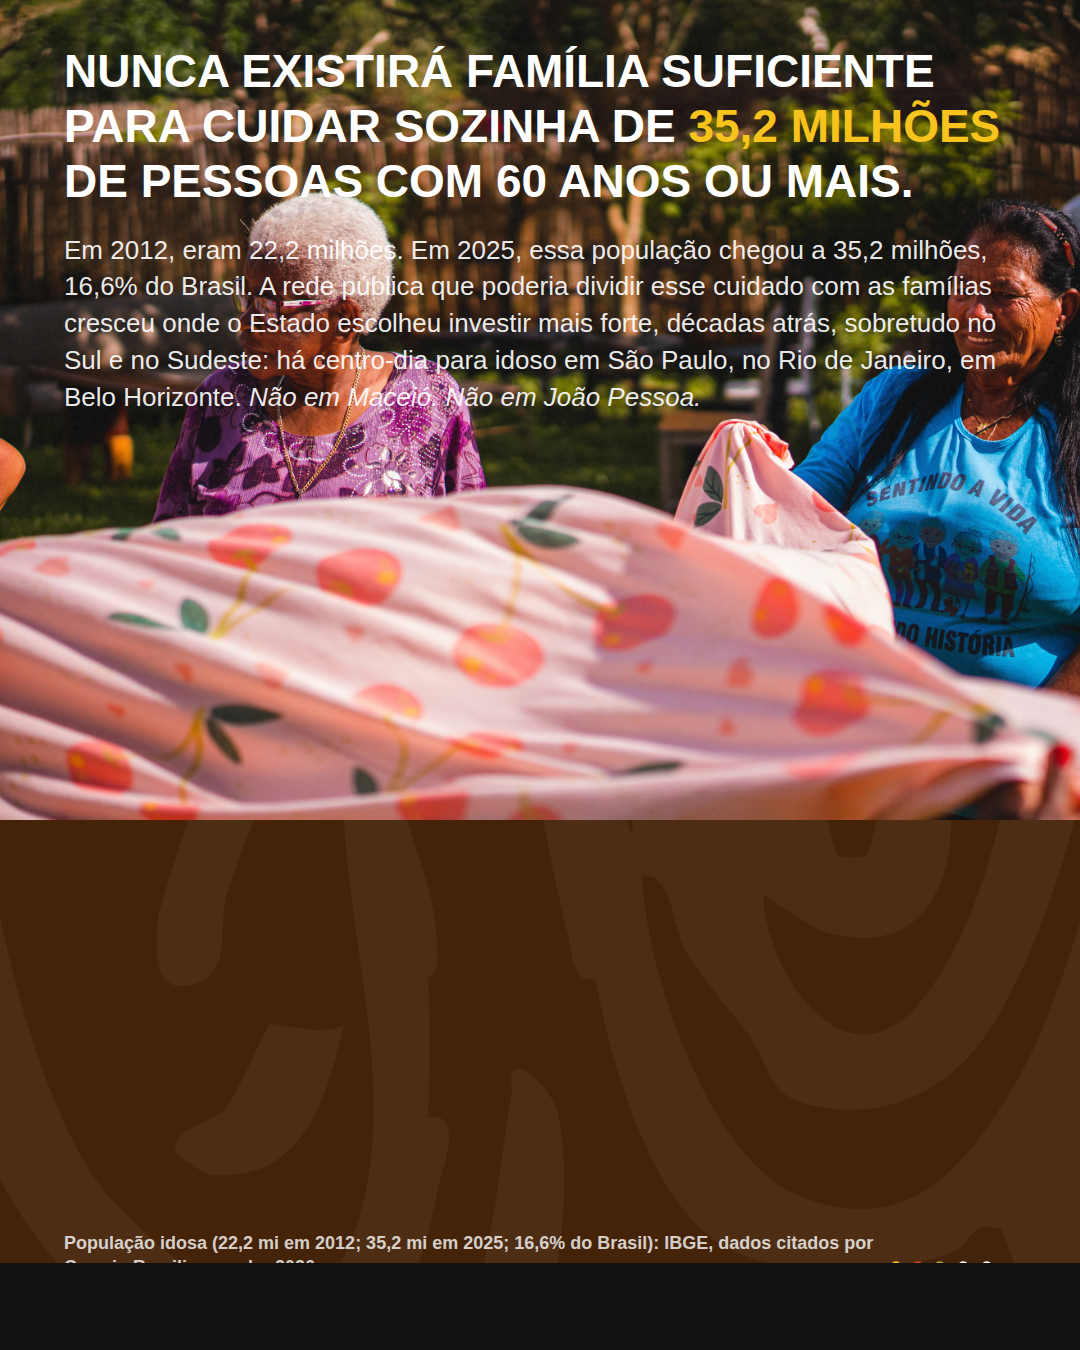
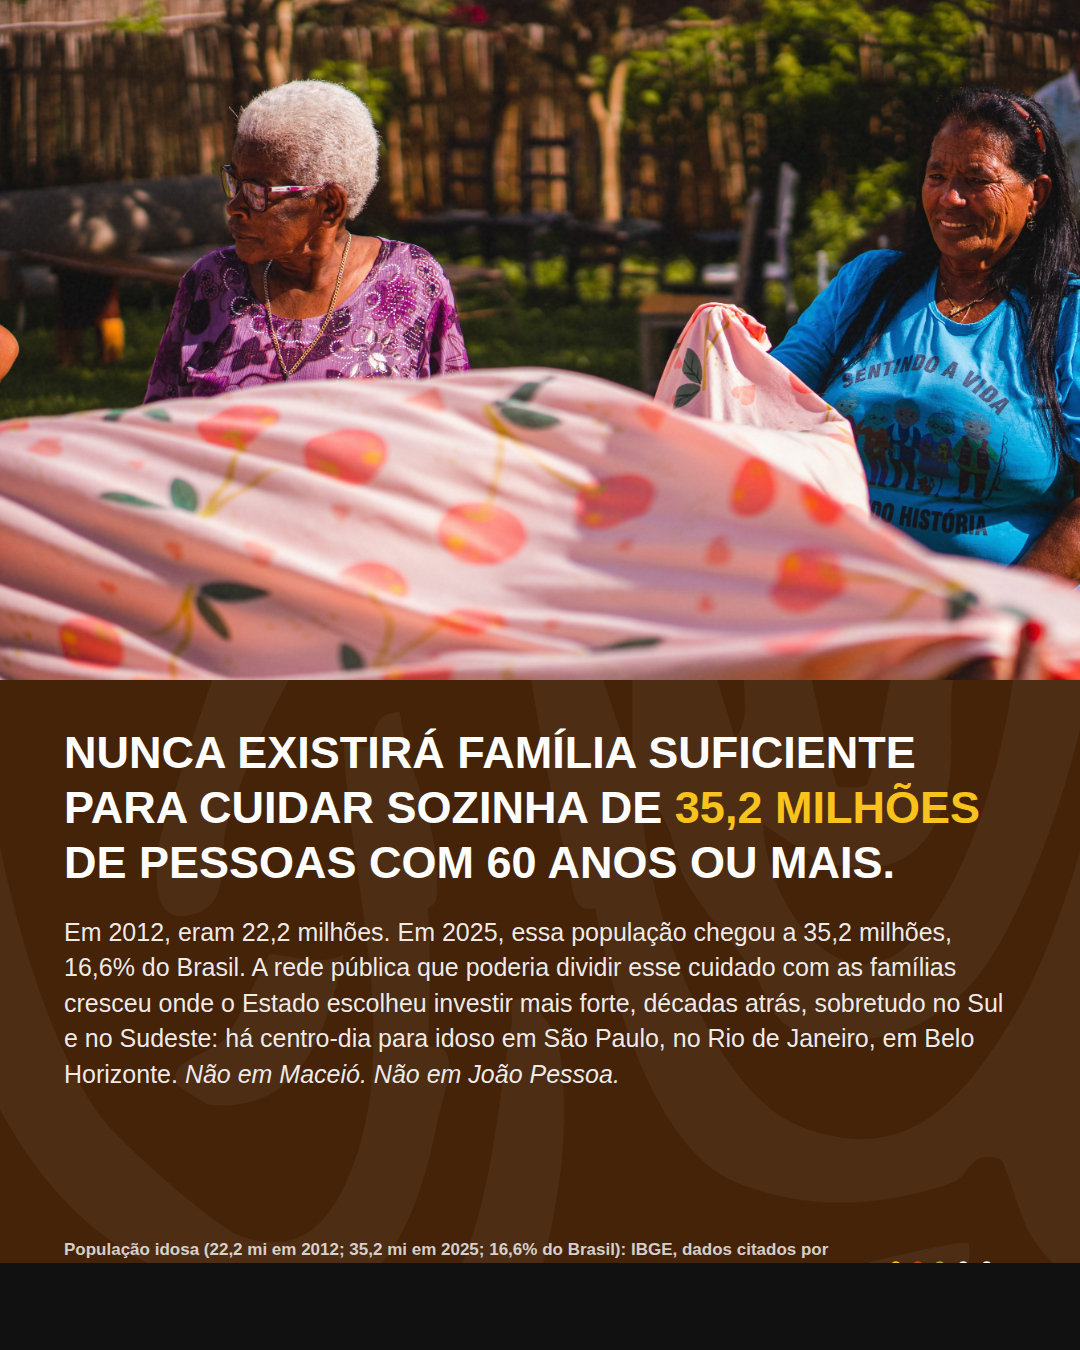
auto: .claude, conteudo, sessoes - 2026-09-02 18:31

diff --git a/conteudo/instagram/paaps.brasil/entregas/2026-09-SETEMBRO/sessao-03-card/index.html b/conteudo/instagram/paaps.brasil/entregas/2026-09-SETEMBRO/sessao-03-card/index.html
@@ -50,28 +50,28 @@
 
   /* ===== CARD ÚNICO : envelhecimento populacional =====
      Modelo aprovado pelo crítico (rodada 2, 97/100): variante do M1 (capa declarativa de
-     impossibilidade estrutural, sem pergunta) na cabeça do card, sustentada por uma linha
-     de apoio em língua comum e um rodapé com as duas fontes amarradas cada uma à afirmação
-     que sustentam (lógica do M6 número gigante, só que o elemento gigante é a frase de
-     impossibilidade, não um número isolado).
+     impossibilidade estrutural, sem pergunta) sustentada por uma linha de apoio em língua
+     comum e um rodapé com as duas fontes, cada uma amarrada à afirmação que sustenta
+     (lógica do M6 número gigante, só que o elemento gigante é a frase de impossibilidade,
+     não um número isolado).
 
      Composição: como o card é denso (headline longa + linha de apoio longa + 2 linhas de
-     fonte), a foto vai em faixa superior sangrando (mesma lógica do slide 3 "dado em card"
-     da peça de referência: object-fit cover é width-bound nessa altura, praticamente toda a
-     largura da foto original aparece, cortando só o suficiente pra excluir o homem desfocado
-     ao fundo à direita — decisão do Buscador de Fotos, executada aqui) — e o corpo de texto
-     inteiro senta numa área sólida marrom abaixo, sem competir com o fundo movimentado do
-     quintal. Nenhum texto cobre os rostos ou o gesto das duas mulheres (Lei 6). */
-  #s1 .foto{top:0;height:820px;object-position:4% 42%;}
-  #s1 .area-texto{position:absolute;left:0;right:0;top:820px;bottom:0;z-index:1;
-                   background:var(--cor-marrom);overflow:hidden;}
+     fonte), a foto sangra numa faixa superior (mesma lógica do slide 3 "dado em card" da
+     peça de referência) e o corpo de texto inteiro senta numa área sólida marrom abaixo,
+     dentro de um container próprio (.card), para não competir com o fundo movimentado do
+     quintal nem vazar por cima da foto. Nenhum texto cobre os rostos ou o gesto das duas
+     mulheres (Lei 6). A foto usada já é um recorte pré-processado (ver nota de entrega)
+     que exclui o homem desfocado ao fundo à direita, decisão do Buscador de Fotos. */
+  #s1 .foto{top:0;height:680px;object-position:50% 88%;}
+  #s1 .card{position:absolute;left:0;right:0;top:680px;bottom:0;z-index:1;
+             background:var(--cor-marrom);overflow:hidden;}
   #s1 .conteudo{position:relative;z-index:2;width:100%;height:100%;
-                 padding:44px 64px 40px;display:flex;flex-direction:column;justify-content:flex-start;gap:22px;}
-  #s1 .headline{font-size:46px;font-weight:700;line-height:1.2;}
-  #s1 .apoio{font-size:26px;font-weight:400;line-height:1.42;color:rgba(255,255,255,0.92);max-width:960px;}
+                 padding:46px 64px 38px;display:flex;flex-direction:column;gap:24px;}
+  #s1 .headline{font-size:45px;font-weight:700;line-height:1.22;}
+  #s1 .apoio{font-size:25px;font-weight:400;line-height:1.42;color:rgba(255,255,255,0.92);max-width:940px;}
   #s1 .apoio em{font-style:italic;font-weight:400;}
-  #s1 .rodape{margin-top:auto;display:flex;flex-direction:column;gap:6px;max-width:820px;}
-  #s1 .rodape .linha{font-family:var(--fonte-titulo);font-weight:700;font-size:18px;line-height:1.35;
+  #s1 .rodape{margin-top:auto;display:flex;flex-direction:column;gap:6px;max-width:780px;}
+  #s1 .rodape .linha{font-family:var(--fonte-titulo);font-weight:700;font-size:17px;line-height:1.32;
                       color:rgba(255,255,255,0.78);}
 </style>
 </head>
@@ -79,16 +79,16 @@
 
 <!-- SLIDE 1 : CARD ÚNICO -->
 <section class="slide" id="s1">
-  <img class="foto" src="fotos/idosa-vinculo-intergeracional-DSC03222-74.jpg">
-  <div class="area-texto">
+  <img class="foto" src="fotos/idosa-vinculo-intergeracional-crop.jpg">
+  <div class="card">
     <div class="textura textura--branco"></div>
-  </div>
-  <div class="conteudo">
-    <div class="headline">NUNCA EXISTIRÁ FAMÍLIA SUFICIENTE PARA CUIDAR SOZINHA DE <span class="amarelo">35,2 MILHÕES</span> DE PESSOAS COM 60 ANOS OU MAIS.</div>
-    <div class="apoio">Em 2012, eram 22,2 milhões. Em 2025, essa população chegou a 35,2 milhões, 16,6% do Brasil. A rede pública que poderia dividir esse cuidado com as famílias cresceu onde o Estado escolheu investir mais forte, décadas atrás, sobretudo no Sul e no Sudeste: há centro-dia para idoso em São Paulo, no Rio de Janeiro, em Belo Horizonte. <em>Não em Maceió. Não em João Pessoa.</em></div>
-    <div class="rodape">
-      <div class="linha">População idosa (22,2 mi em 2012; 35,2 mi em 2025; 16,6% do Brasil): IBGE, dados citados por Correio Braziliense, abr. 2026.</div>
-      <div class="linha">Rede de centros-dia por região: Estado de Minas, mai. 2026.</div>
+    <div class="conteudo">
+      <div class="headline">NUNCA EXISTIRÁ FAMÍLIA SUFICIENTE PARA CUIDAR SOZINHA DE <span class="amarelo">35,2 MILHÕES</span> DE PESSOAS COM 60 ANOS OU MAIS.</div>
+      <div class="apoio">Em 2012, eram 22,2 milhões. Em 2025, essa população chegou a 35,2 milhões, 16,6% do Brasil. A rede pública que poderia dividir esse cuidado com as famílias cresceu onde o Estado escolheu investir mais forte, décadas atrás, sobretudo no Sul e no Sudeste: há centro-dia para idoso em São Paulo, no Rio de Janeiro, em Belo Horizonte. <em>Não em Maceió. Não em João Pessoa.</em></div>
+      <div class="rodape">
+        <div class="linha">População idosa (22,2 mi em 2012; 35,2 mi em 2025; 16,6% do Brasil): IBGE, dados citados por Correio Braziliense, abr. 2026.</div>
+        <div class="linha">Rede de centros-dia por região: Estado de Minas, mai. 2026.</div>
+      </div>
     </div>
   </div>
   <img class="logo" src="logo/logo-branco.png">

diff --git a/conteudo/ciclos/2026-09-02/fotos-peca2.md b/conteudo/ciclos/2026-09-02/fotos-peca2.md
@@ -1,0 +1,226 @@
+# Fotos — Peça 2 da semana: rotatividade das Agentes Comunitárias de Saúde (ACS)
+
+**Data:** 02/09/2026
+**Perfil:** @paaps.brasil
+**Fonte da copy:** `conteudo/ciclos/2026-09-02/copy-peca2-acs.md`
+**Ambiente desta sessão:** sandbox de nuvem, sem Mac local (`insumos-compartilhados/fotos/` não
+existe neste ambiente). Ferramentas Notion (`mcp__Notion__notion-query-data-sources`,
+`mcp__Notion__notion-fetch`) **não estavam no conjunto de ferramentas desta sessão** — não pude
+sequer tentar o MODO 1 (PhotoBank Notion). Fui direto ao MODO 1C do meu arquivo de instruções:
+Google Drive, via `mcp__Google_Drive__search_files` e `mcp__Google_Drive__download_file_content`.
+Não tentei o MODO 1B (webhook n8n) porque a instrução da tarefa já autorizava pular direto ao 1C.
+
+**Aviso de escopo, antes de tudo:** por rodar só com Google Drive, o único acervo fotográfico real
+que encontrei é o acervo próprio da PAAPS (Bela Vista de Minas). O acervo documental de rede
+pública genérica (ACS/visita domiciliar/território, citado em `mapa-fontes-foto.md` e usado em
+peças anteriores) **não existe no Drive**: só existe no disco local do Mac da Mallu, que não está
+acessível aqui. Isso pesa contra a hierarquia de fontes do ecossistema (documental pública em
+primeiro lugar, acervo próprio pontual) — não é uma escolha minha, é a lacuna deste ambiente. Estou
+registrando isso como pendência de gestão, não escondendo atrás de uma foto forçada.
+
+---
+
+## O que eu consultei
+
+### Google Drive — pastas verificadas
+
+1. **`FOTOS BVMG ISAAC`** (id `1j3HMea3pwEWaz4HEuEUFFpuuYmTl0bPr`) — 208 arquivos de imagem
+   listados via `mcp__Google_Drive__search_files` (`parentId = '1j3HMea3pwEWaz4HEuEUFFpuuYmTl0bPr'
+   and mimeType contains 'image/'`, 2 páginas, ~102 + ~102 linhas). **Abri e olhei 15 fotos desta
+   pasta** (de 208): `IMG_7721`, `IMG_7730`, `IMG_7745`, `IMG_7787`, `IMG_7852`, `IMG_7866`,
+   `IMG_7912`, `IMG_7914`, `IMG_7925`, `IMG_7940`, `IMG_7993`, `IMG_7994`, espalhadas por toda a
+   numeração de sequência (7721 a 8002), mais 3 fotos com legenda de conteúdo já visível no
+   `contentSnippet` do próprio resultado da busca (rótulos de imagem gerados pelo Drive, que usei
+   só para decidir o que abrir, nunca como descrição final). **Achado consistente em toda a
+   amostra:** é a cobertura de **um único evento**, um workshop/roda de conversa indoor num prédio
+   público (retratos institucionais na parede, ar-condicionado, TV, cadeiras amarelas de
+   escritório), com dinâmica de post-its, uma pessoa falando com microfone e uma foto de grupo
+   posada de encerramento. **Nenhuma das 15 fotos abertas mostra rua, porta, casa, visita
+   domiciliar ou qualquer cena de campo.** Não há indício, nas fotos abertas nem nos títulos/
+   caminho da pasta, de que o resto da pasta mude de registro: a numeração é sequencial e contínua
+   (mesma sessão de câmera, mesmo dia 26-27/11/2025).
+
+2. **`OUTRAS FOTOS`** (id `1blGmXdb0Hs2Ilnuuo6fSX7sK_urbmx6M`) — listagem completa via
+   `search_files` (18 arquivos). Abri 3: `MARIA QUINZINHO.jpg` (retrato de uma senhora sorrindo
+   através de uma grade — não é ACS, é provavelmente beneficiária/moradora, ⚠ alta exposição),
+   `DSC03075-3.jpg` e `DSC03222-74.jpg` (ambas cenas ao ar livre sob palmeiras / cercado de bambu,
+   perfil de comunidade/Refazenda, não SUS). Nenhuma serve ao ângulo de ACS.
+
+3. **`REDE PÚBLICA - BRASIL`** (id `16ERZZlcKjIRBMggzhJ_abtj6HF686XUx`) — busquei por
+   `title contains 'REDE' or title contains 'PÚBLICA' or title contains 'SUS' or title contains
+   'ACS'`. **Confirmado: é uma biblioteca de PDFs teóricos** (CREPOP, RAPS/UNA-SUS, Foucault/
+   Laboreal, slides de aula sobre agroecologia e psicologia comunitária), não um acervo
+   fotográfico. Zero imagens fotográficas nesta pasta.
+
+4. **`Case de Bela Vista de Minas`** (id `1PkZZ35oEi9x_PFfycZBEqhp5fc6a6QUx`) — listada via
+   `search_files`. **Todo o conteúdo são atalhos (`shortcut`) para arquivos HEIC/MOV/JPG
+   localizados em outro lugar do Drive** (provavelmente o álbum do celular da Mallu). Tentei abrir
+   um (`IMG_2499.JPG`, id `11_H43T2boCNlXrBnA68jgKtIqH3eJR2g`) via
+   `download_file_content`: **erro "Download not allowed for file id"**. Consultei os metadados
+   (`get_file_metadata`): o Drive não expõe o `id` do arquivo-alvo do atalho nesta API. **Não
+   consegui ver nenhuma foto desta pasta** — não é dedução por título, é limitação de ferramenta
+   registrada aqui.
+
+5. **`ECOA FOTOS`, `MÃES ATÍPICAS RJ`, `CRAFTSAPIENS (MUNDO DIGITAL)`** — não abri. Pelo próprio
+   propósito declarado dessas pastas (`mapa-fontes-foto.md`: ECOA exclusivo do Interlocutor ECOA;
+   Mães Atípicas é projeto de autismo; Craftsapiens é evento de tecnologia), nenhuma tem relação de
+   conteúdo com ACS/SUS. Não gastei chamadas de download nelas.
+
+### O que eu NÃO consegui ver
+
+- Todo o conteúdo de `Case de Bela Vista de Minas` (atalhos não resolvíveis com as ferramentas
+  desta sessão).
+- 193 das 208 fotos de `FOTOS BVMG ISAAC` (abri 15; ver acima por que considero a amostra
+  suficiente para concluir que a pasta inteira é um único evento indoor).
+- O acervo documental de rede pública (`REDE PÚBLICA BRASILEIRA` no Mac local, citado em
+  `mapa-fontes-foto.md` e no `MEMORY.md` deste agente) — não existe no Drive, só no disco local.
+- O PhotoBank do Notion — ferramentas MCP do Notion não estavam disponíveis nesta sessão.
+
+---
+
+## Slide a slide
+
+### Slide 1 — Capa
+**Cena pedida:** ACS de uniforme/colete, caminhando por rua de bairro popular, se aproximando de
+portão aberto, prancheta na mão. Território visível (casas, rua).
+
+**Não encontrei candidata real.** Consulta: 15/208 fotos abertas em `FOTOS BVMG ISAAC` (todas
+indoor, evento único); `OUTRAS FOTOS` completa (3/18 abertas, nenhuma de rua/ACS);
+`REDE PÚBLICA - BRASIL` é biblioteca de PDF, 0 imagens. Nenhuma foto de rua, portão ou casa nos
+acervos que consegui abrir. **Sem foto neste slide, nesta entrega.**
+
+### Slide 2 — Raiz histórica
+**Cena pedida:** ACS na soleira de uma casa, sendo recebida por morador que já a reconhece.
+
+**Não encontrei candidata real.** Mesma base de busca do slide 1. Nenhuma cena de soleira/porta de
+casa em nenhum dos acervos abertos. **Sem foto.**
+
+### Slide 3 — Contradição em dado
+**Cena pedida:** ACS numa rua com várias casas ao fundo, carregando pasta/fichas — escala de
+território.
+
+**Não encontrei candidata real.** Mesma base. **Sem foto.**
+
+### Slide 4 — Citação real
+**Cena pedida:** retrato de uma ACS real, rosto visível, de uniforme, ambiente de trabalho (rua ou
+UBS), expressão séria e refletida.
+
+**Candidata única, com ressalva forte — decisão da Mallu, não minha:**
+
+- **`IMG_7745.JPG`** (`FOTOS BVMG ISAAC`, id `1ngkuMFbGmadIEtBIITLhW_xDu-fvWY8U`)
+  - **O que eu vi:** plano fechado de duas mulheres em perfil, sentadas, ouvindo alguém fora de
+    quadro; a da frente (blusa alça, tatuagem no braço) tem expressão neutra/atenta; a de trás
+    (regata cinza, tatuagem no pescoço) olha séria, direto para a câmera de quem fotografa a
+    plateia — não para o fotógrafo, expressão espontânea, não posada. Fundo bege liso.
+  - **Por que essa, com ressalva:** é a única foto entre as que abri com rosto isolado, expressão
+    séria/refletida e não sorrindo para câmera — o registro emocional que o slide pede. **Mas não
+    atende dois critérios explícitos da cena:** não há uniforme visível, e o ambiente é uma sala de
+    workshop institucional, não rua nem UBS. Não sei se as pessoas retratadas são ACS ou outra
+    categoria de servidor presente no evento.
+  - Acervo: próprio PAAPS (Bela Vista de Minas) · ⚠ licença não declarada (sem Notion nesta sessão,
+    não há como checar campo `Licença` do PhotoBank)
+  - Usos: não registrado (sem acesso ao Notion para checar/gravar `Usos` nesta sessão)
+  - Alertas: rosto identificável de duas pessoas, contexto real (⚠ risco de exposição, comum) — não
+    é situação de sofrimento/vulnerabilidade, é reunião de trabalho, risco baixo. **Alerta principal
+    é de adequação à cena, não de exposição.**
+  - Copiada para `conteudo/instagram/paaps.brasil/entregas/2026-09-SETEMBRO/sessao-02/fotos/slide-04.jpg`
+    **como melhor opção real disponível, não como match correto.** Se a Mallu preferir deixar o
+    slide 4 sem foto a usar uma imagem que não é de ACS em campo, essa é uma escolha legítima dela.
+
+### Slide 5 — Respiro
+**Cena pedida:** foto clara, ACS de costas caminhando por rua/vila ampla, escala de território.
+
+**Não encontrei candidata real.** Mesma base de busca. **Sem foto.**
+
+### Slide 6 — Virada
+**Cena pedida:** interior simples de UBS/posto, ACS entregando ficha a colega, ou sala de reunião
+com ACS reunidas ao fim do plantão, postura cansada, real, não posada.
+
+**3 candidatas, todas do mesmo evento (`FOTOS BVMG ISAAC`), todas abertas e olhadas:**
+
+**Candidata A (escolhida) — `IMG_7721.JPG`** (id `1i-SReuOwdbBKtwGgiZ-BBBfCS4L1ITbB`)
+- **O que eu vi:** sala institucional (retratos emoldurados de autoridades na parede, TV, ar-
+  condicionado, cadeiras amarelas de escritório em círculo). Cerca de 10 mulheres e 1 homem
+  sentados em roda, ouvindo uma facilitadora (blusa branca) ao centro-direita. Posturas reais:
+  braços cruzados, pernas cruzadas, expressões sérias/cansadas, ninguém olha para a câmera.
+- **Por que essa:** é a foto que mais carrega "gente real reunida, ouvindo, postura de quem já
+  trabalhou o dia inteiro" — a estrutura emocional do slide (peso, escuta, não celebração). Não é
+  literalmente uma UBS nem "fim de plantão", mas é o registro mais próximo de "sala de reunião com
+  servidoras reunidas, postura real, não posada" que existe no material acessível.
+- Acervo: próprio PAAPS (Bela Vista de Minas) · ⚠ licença não declarada
+- Usos: não registrado (sem Notion nesta sessão)
+- Alertas: ⚠ risco de exposição comum (rostos identificáveis, contexto de trabalho, não de
+  vulnerabilidade) — risco baixo
+- Copiada para `.../sessao-02/fotos/slide-06.jpg`
+
+**Candidata B — `IMG_7730.JPG`** (id `1BlqqrZg5bncYWwHXmlUk_LCutM2CIxPD`)
+- **O que eu vi:** plano mais fechado, 3 mulheres sentadas em cadeiras amarelas, uma de blusa
+  branca no centro sorri levemente para o lado, as outras duas sérias, uma de braços cruzados.
+  Janela grande ao fundo, luz estourada.
+- Por que não escolhi: o sorriso da figura central e a luz estourada da janela deixam a foto mais
+  "clara/leve" do que o peso que o slide 6 pede (é a virada de "a régua segue igual", precisa de
+  gravidade). A candidata A carrega mais gente e mais seriedade coletiva.
+- Mesmos alertas de acervo/licença/exposição da candidata A.
+
+**Candidata C — `IMG_7745.JPG`** (mesma foto usada no slide 4)
+- Descartada aqui por já estar alocada ao slide 4 (evitar repetir a mesma imagem em dois slides da
+  mesma peça) e por ser plano fechado demais para "sala de reunião", que pede mais gente em quadro.
+
+### Slide 7 — Número gigante
+**Cena pedida:** cadeira vazia numa sala de espera de UBS, ou colete/crachá de ACS pendurado sem
+ninguém — sinal de alguém que saiu.
+
+**Não encontrei candidata real.** Nas fotos de encerramento do mesmo evento (`IMG_7912`,
+`IMG_7914`), há cadeiras amarelas vazias em primeiro plano — mas é porque todo mundo se levantou
+para a foto de grupo posada ao fundo, não uma cena deliberada de ausência. Usar esse recorte
+falsearia a leitura ("alguém que saiu") sobre uma foto que na verdade mostra o grupo inteiro
+presente e sorrindo. **Não considero isso uma candidata real** — é o tipo de forçação que a regra
+deste agente proíbe. **Sem foto neste slide, nesta entrega.**
+
+### Slide 8 — Fechamento, pergunta
+**Cena pedida:** foto ampla de rua de bairro com várias casas, ACS ao longe caminhando em direção
+ao horizonte, luz de fim de tarde, sangrando até a borda.
+
+**Não encontrei candidata real.** Mesma base de busca dos slides 1, 2, 3 e 5. **Sem foto.**
+
+---
+
+## Resumo para a Mallu
+
+De 8 slides, **encontrei candidata real para 2** (slides 4 e 6), e mesmo essas com ressalva: são do
+mesmo evento indoor de Bela Vista de Minas, não do registro de campo (rua/porta/visita domiciliar)
+que a copy pede para os outros 6 slides. Os 6 slides restantes (1, 2, 3, 5, 7, 8) **ficam sem foto
+nesta entrega** porque não existe, nos acervos que consegui abrir neste ambiente de nuvem, nenhuma
+imagem real de ACS em rua, porta, casa ou visita domiciliar.
+
+**Isso é informação de gestão, não um limite de esforço meu:** o acervo documental de rede pública
+que cobriria exatamente essas cenas (`REDE PÚBLICA BRASILEIRA`, citado em `mapa-fontes-foto.md`)
+existe só no disco local do Mac da Mallu, fora do alcance desta sessão de nuvem. Três caminhos
+possíveis, para ela decidir:
+
+1. Rodar esta mesma curadoria numa sessão com acesso ao Mac local (MODO 1 padrão), que tem as 33
+   fotos de "REDE PÚBLICA BRASILEIRA" já auditadas em `.claude/agent-memory/buscador-fotos/MEMORY.md`
+   — inclusive candidatas fortes para os slides 1, 2 e 3 (`Visita-Domiciliar-Gurupi-Tocantins`,
+   `PSF-Periferia-Sao-Paulo`, `ACS-Quilombola`).
+2. Aceitar as 2 candidatas de campo indireto (slides 4 e 6) e publicar os outros 6 slides sem foto
+   — decisão dela, não deveria ser decisão silenciosa minha.
+3. Adiar a peça até nova sessão com acesso ao acervo certo.
+
+## Arquivos entregues
+
+- `conteudo/instagram/paaps.brasil/entregas/2026-09-SETEMBRO/sessao-02/fotos/slide-04.jpg`
+  (`IMG_7745.JPG`, com ressalva — ver slide 4)
+- `conteudo/instagram/paaps.brasil/entregas/2026-09-SETEMBRO/sessao-02/fotos/slide-06.jpg`
+  (`IMG_7721.JPG`)
+- Slides 1, 2, 3, 5, 7, 8: sem arquivo, por ausência de candidata real (ver detalhamento acima)
+
+## Registro no PhotoBank
+
+**Não realizado.** As ferramentas MCP do Notion (`notion-query-data-sources`, `notion-fetch`,
+`notion-update-page`) não estavam disponíveis nesta sessão — não consegui consultar nem atualizar
+o PhotoBank. As duas fotos usadas (`IMG_7745.JPG`, `IMG_7721.JPG`) vêm do Google Drive
+(`FOTOS BVMG ISAAC`), não do PhotoBank do Notion, e não têm página lá. Se esta peça for publicada,
+registrar manualmente no Notion (ou em sessão futura com acesso MCP): as duas imagens como novas
+páginas do PhotoBank (Story: "PAAPS in action! Cases", Fonte: acervo PAAPS, Licença: ⚠ não
+verificada), e o campo `Usos` de cada uma com `2026-09-02 · carrossel "rotatividade ACS" · slide 04`
+e `slide 06` respectivamente.

diff --git a/.claude/agent-memory/buscador-fotos/MEMORY.md b/.claude/agent-memory/buscador-fotos/MEMORY.md
@@ -129,3 +129,35 @@ metadados, não desta etapa de curadoria pontual.
 ## Fotos que a Mallu rejeitou
 
 *(vazio; registrar a partir da primeira devolução dela)*
+
+---
+
+## MODO 1C (Google Drive) — o que a pasta `FOTOS BVMG ISAAC` realmente é (02/09/2026)
+
+Rodando em sandbox de nuvem sem disco local nem ferramentas Notion, usei o MODO 1C
+(`mcp__Google_Drive__search_files` + `download_file_content`) para o carrossel de rotatividade das
+ACS. Abri 15 das 208 fotos de `FOTOS BVMG ISAAC` (id `1j3HMea3pwEWaz4HEuEUFFpuuYmTl0bPr`), espalhadas
+por toda a numeração `IMG_7721` a `IMG_8002`.
+
+**Achado importante: a pasta inteira, pelo menos na amostra aberta, é a cobertura de UM ÚNICO
+EVENTO** — um workshop/roda de conversa indoor num prédio público de Bela Vista de Minas (retratos
+institucionais na parede, TV, ar-condicionado, cadeiras amarelas de escritório), com dinâmica de
+post-its coloridos na parede, uma fala com microfone e uma foto de grupo posada de encerramento.
+**Não é o acervo de campo (rua, porta, casa, visita domiciliar) que os carrosséis de ACS pedem.**
+Esse acervo de campo (`REDE PÚBLICA BRASILEIRA`, ver seção acima deste arquivo) só existe no disco
+local do Mac, não no Drive. Se aparecer de novo uma sessão de nuvem sem disco local e a tarefa
+pedir cena de rua/porta/casa: **não adianta vasculhar mais fundo `FOTOS BVMG ISAAC` esperando achar
+isso** — é outro tipo de material (reunião/formação interna). Vale para portrait fechado também: as
+fotos de rosto sério que existem lá são recortes de gente ouvindo em roda, não retratos dedicados,
+e ninguém está de uniforme.
+
+**Pasta `Case de Bela Vista de Minas`** (id `1PkZZ35oEi9x_PFfycZBEqhp5fc6a6QUx`) é só atalhos
+(`application/vnd.google-apps.shortcut`) para HEIC/MOV/JPG hospedados em outro lugar do Drive.
+`download_file_content` recusa com "Download not allowed for file id" nos atalhos, e
+`get_file_metadata` não expõe o id do arquivo-alvo. **Não há caminho conhecido para abrir o
+conteúdo desta pasta pelas ferramentas MCP do Google Drive disponíveis.**
+
+**Pasta `REDE PÚBLICA - BRASIL`** no Drive (id `16ERZZlcKjIRBMggzhJ_abtj6HF686XUx`) é uma
+**biblioteca de PDFs teóricos** (CREPOP, RAPS/UNA-SUS, artigos de psicologia do trabalho), **não**
+o acervo fotográfico documental de rede pública. Nome igual, conteúdo totalmente diferente do que
+o mesmo nome designa no disco local. Não confundir os dois na hora de buscar.

diff --git a/sessoes/sessao-2026-09-02.md b/sessoes/sessao-2026-09-02.md
@@ -94,3 +94,13 @@
 ?? conteudo/instagram/paaps.brasil/entregas/2026-09-SETEMBRO/sessao-02/
 ```
 
+
+## 18:31
+```
+ M .claude/agent-memory/buscador-fotos/MEMORY.md
+ M conteudo/instagram/paaps.brasil/entregas/2026-09-SETEMBRO/sessao-03-card/export/slide-01.png
+ M conteudo/instagram/paaps.brasil/entregas/2026-09-SETEMBRO/sessao-03-card/index.html
+?? conteudo/ciclos/2026-09-02/fotos-peca2.md
+?? conteudo/instagram/paaps.brasil/entregas/2026-09-SETEMBRO/sessao-03-card/fotos/idosa-vinculo-intergeracional-crop.jpg
+```
+
